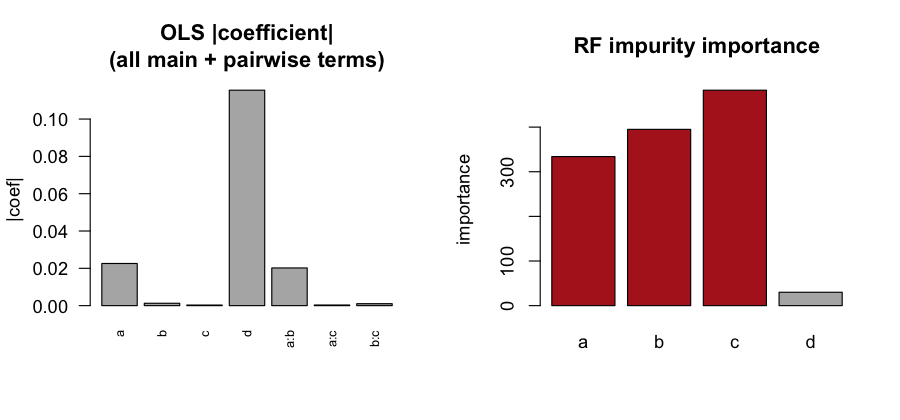
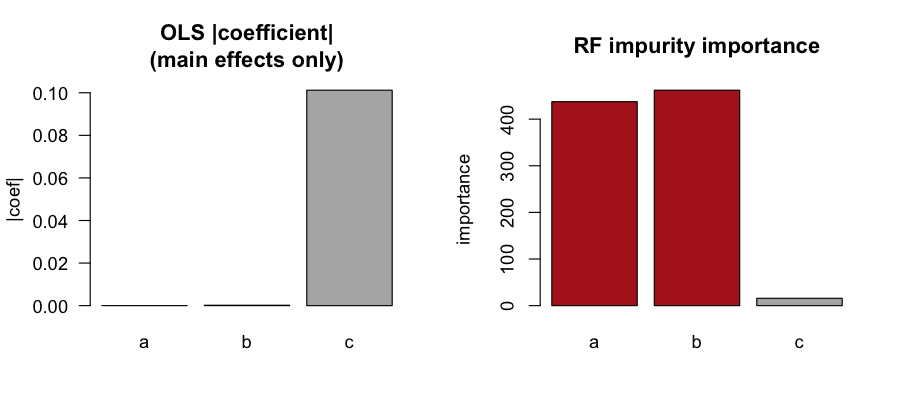
Two-way parity follow-ons: regenerate fig2 for y = c/10 + (a+b) mod 2 with main-effects OLS; guidance PDP paragraph now refers to the joint (a,b) view; notebook n = 10000 and the side-note says a*b recovers the parity exactly

diff --git a/paper/sections/guidance.tex b/paper/sections/guidance.tex
@@ -11,8 +11,8 @@
   recover exactly what importance discards: in Section~\ref{sec:confound} the skewed-feature
   model's PDPs are straight lines while the non-linear model's curve --- same
   importances, different shapes. For the Section~\ref{sec:interactions}
-  interaction, a one- or two-way PDP among $a,b,c$ is flat --- the parity pattern
-  only appears in the full three-way view --- which is itself the tell that the
+  interaction, the one-way PDPs over $a$ and $b$ are flat --- the parity pattern
+  only appears in the joint $(a,b)$ view --- which is itself the tell that the
   effect is a higher-order interaction that per-feature importance has flattened.
   Curvature (or a suspiciously flat low-order PDP over a high-importance variable)
   is a concrete cue to add a polynomial or interaction term back into an
